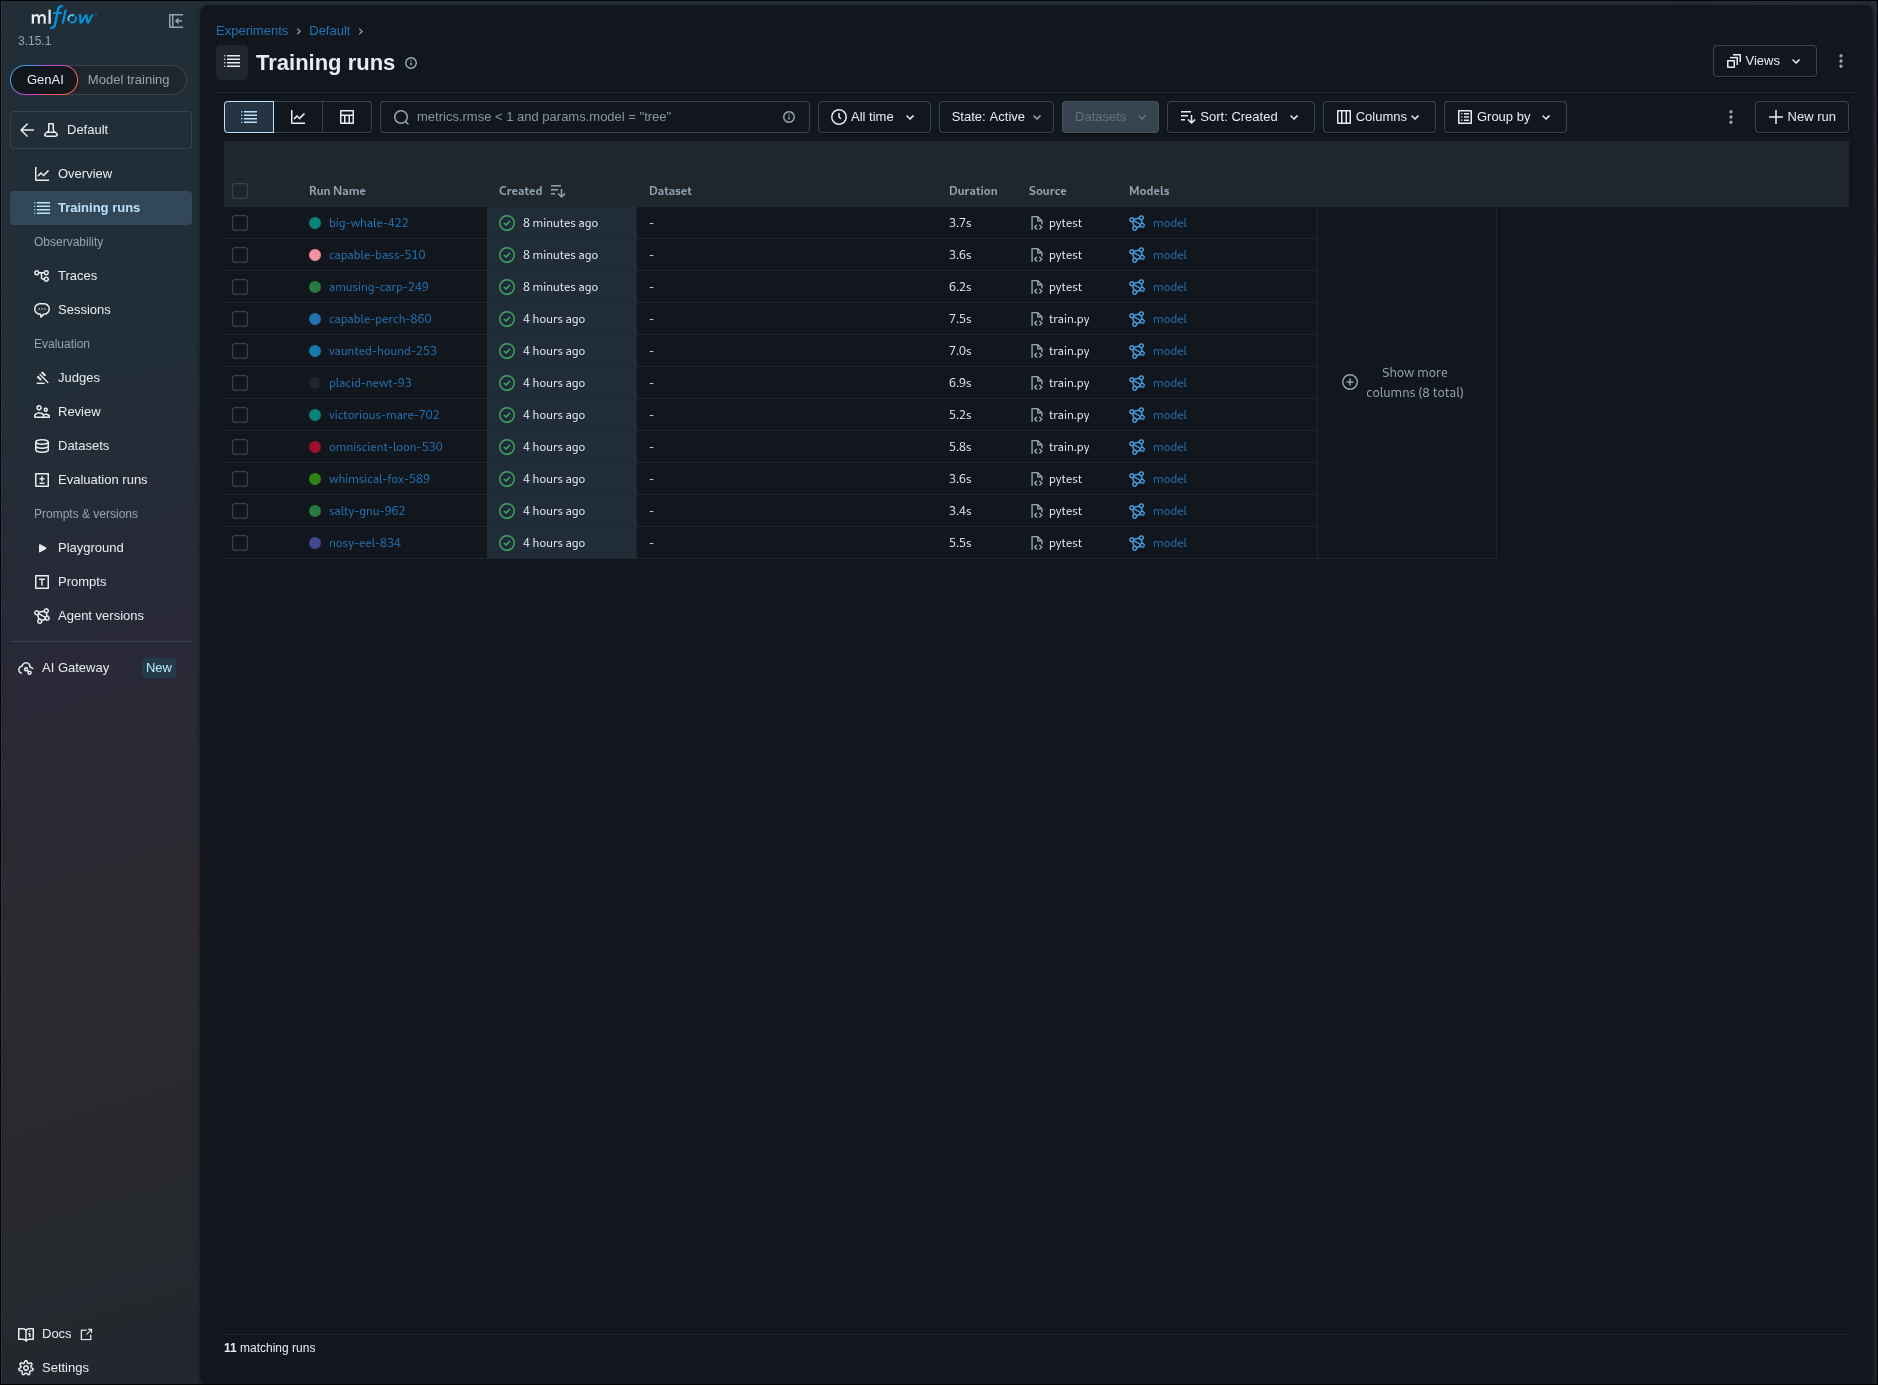
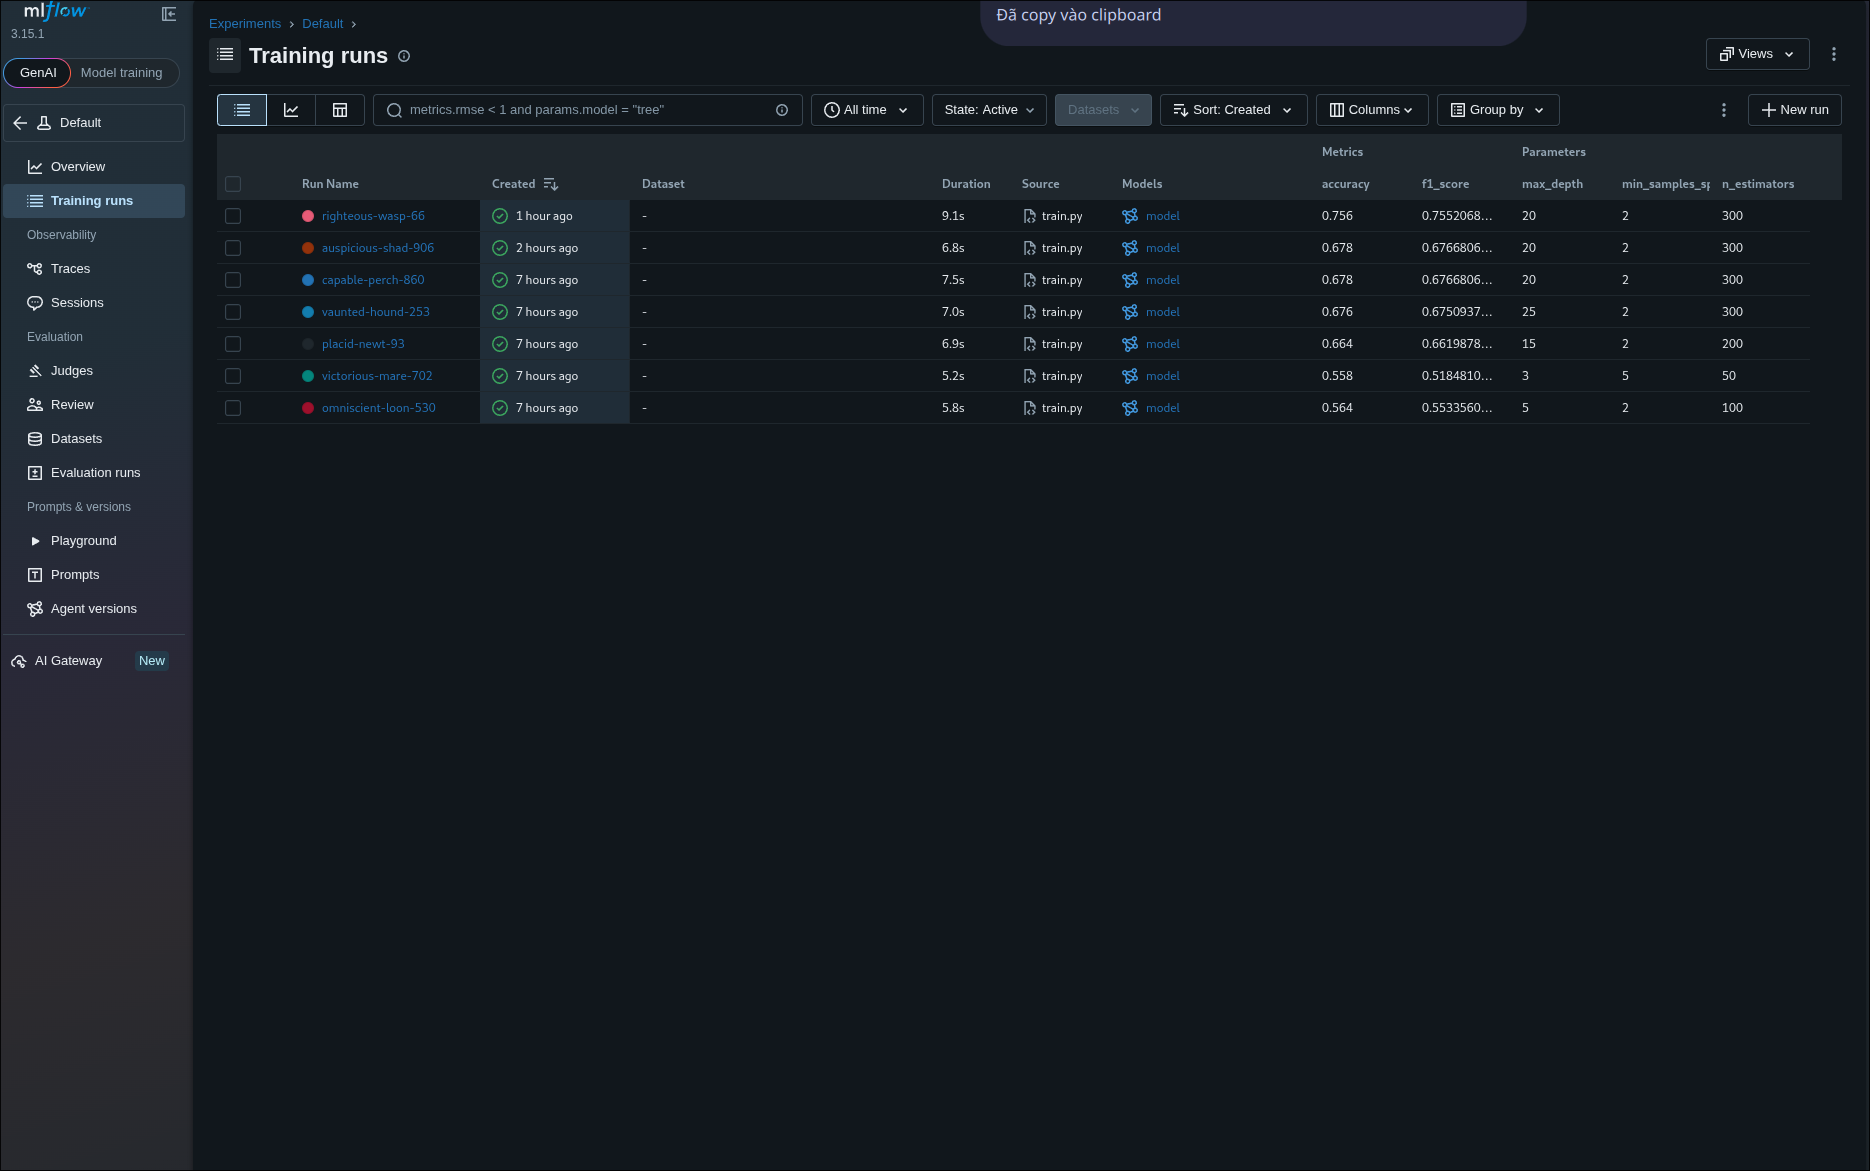
docs: bo sung 5 screenshot bang chung va khop run name vao bao cao

diff --git a/submission/REPORT.md b/submission/REPORT.md
@@ -12,17 +12,17 @@
 
 Đã chạy 5 thí nghiệm với 5 bộ siêu tham số khác nhau cho `RandomForestClassifier`, dữ liệu Wine Quality (2998 mẫu `train_phase1`, 500 mẫu `eval` held-out). Tracking backend: `sqlite:///mlflow.db`.
 
-| Run ID | n_estimators | max_depth | min_samples_split | Accuracy | F1 (weighted) | Nhận xét |
-|---|---|---|---|---|---|---|
-| `009c9b64` | 100 | 5 | 2 | 0.5640 | 0.5534 | Baseline, cây quá nông |
-| `f24a4f3d` | 50 | 3 | 5 | 0.5580 | 0.5185 | Underfitting rõ |
-| `631abacd` | 200 | 15 | 2 | 0.6640 | 0.6620 | Tăng độ sâu → cải thiện mạnh |
-| `97feeb97` | 300 | 25 | 2 | 0.6760 | 0.6751 | Sâu hơn nữa không còn lợi |
-| **`9dbef5c2`** | **300** | **20** | **2** | **0.6780** | **0.6767** | **Bộ được chọn** |
+| Run ID | Run name (trên MLflow UI) | n_estimators | max_depth | min_samples_split | Accuracy | F1 (weighted) | Nhận xét |
+|---|---|---|---|---|---|---|---|
+| `009c9b64` | `omniscient-loon-530` | 100 | 5 | 2 | 0.5640 | 0.5534 | Baseline, cây quá nông |
+| `f24a4f3d` | `victorious-mare-702` | 50 | 3 | 5 | 0.5580 | 0.5185 | Underfitting rõ |
+| `631abacd` | `placid-newt-93` | 200 | 15 | 2 | 0.6640 | 0.6620 | Tăng độ sâu → cải thiện mạnh |
+| `97feeb97` | `vaunted-hound-253` | 300 | 25 | 2 | 0.6760 | 0.6751 | Sâu hơn nữa không còn lợi |
+| **`9dbef5c2`** | **`capable-perch-860`** | **300** | **20** | **2** | **0.6780** | **0.6767** | **Bộ được chọn** |
 
 **Lý do chọn `n_estimators=300, max_depth=20, min_samples_split=2`:** cho accuracy và F1 cao nhất trong 5 lần chạy. So sánh 15 → 20 → 25 cho thấy accuracy đạt đỉnh tại `max_depth=20` rồi đi ngang/giảm nhẹ (0.6640 → 0.6780 → 0.6760), nên 20 là điểm cân bằng giữa khả năng học phi tuyến và overfitting. Tăng `n_estimators` từ 200 lên 300 giúp giảm phương sai của rừng, chi phí huấn luyện vẫn nhỏ. Giá trị này đã được ghi vào `params.yaml`.
 
-Ngoài 5 run thí nghiệm trên, `mlflow.db` còn 2 run tái lập bằng chính `src/train.py` với bộ tham số đã chọn: `0e8a0ac9` trên dữ liệu Bước 2 (2998 mẫu → 0.6780 / 0.6767) và `34155658` trên dữ liệu Bước 3 (5996 mẫu → 0.7560 / 0.7552). Tổng cộng 7 run active.
+Ngoài 5 run thí nghiệm trên, `mlflow.db` còn 2 run tái lập bằng chính `src/train.py` với bộ tham số đã chọn: `0e8a0ac9` / `auspicious-shad-906` trên dữ liệu Bước 2 (2998 mẫu → 0.6780 / 0.6767) và `34155658` / `righteous-wasp-66` trên dữ liệu Bước 3 (5996 mẫu → 0.7560 / 0.7552). Tổng cộng 7 run active trong ảnh `01_mlflow_ui.png`.
 
 ---
 
@@ -135,9 +135,11 @@ $ curl -X POST http://13.212.129.221:8000/predict -H 'Content-Type: application/
 
 | Bằng chứng | Nguồn |
 |---|---|
-| MLflow UI với các run thí nghiệm | `submission/screenshots/01_mlflow_ui.png` |
-| Quality gate chặn Deploy (Bước 2) | GitHub Actions run `32479269248` |
-| 4 job xanh, trigger bởi commit dữ liệu (Bước 3) | GitHub Actions run `32480027037` |
+| MLflow UI với 7 run (5 thí nghiệm + 2 tái lập) | `submission/screenshots/01_mlflow_ui.png` |
+| 4 job xanh, trigger bởi commit dữ liệu (Bước 3) | `submission/screenshots/02_actions_4_green.png` — Actions run `32480027037` |
+| Quality gate chặn Deploy với dữ liệu Bước 2 | `submission/screenshots/03_actions_gate_blocked.png` — Actions run `32479269248` |
+| `curl /health` và `curl /predict` tới EC2 | `submission/screenshots/04_curl_api.png` |
+| S3 console: `dvc/` + `models/latest/model.pkl` | `submission/screenshots/05_s3_console.png` |
 | Metrics từ CI | artifact `metrics` của run `32480027037`: `{"accuracy": 0.756, "f1_score": 0.7552068895839901}` |
 | Model artifact trên cloud | `s3://mlops-lab-day21-708664/models/latest/model.pkl` (62,775,265 byte) |
 | Dữ liệu trên DVC remote | `s3://mlops-lab-day21-708664/dvc/files/md5/...` (4 object) |
